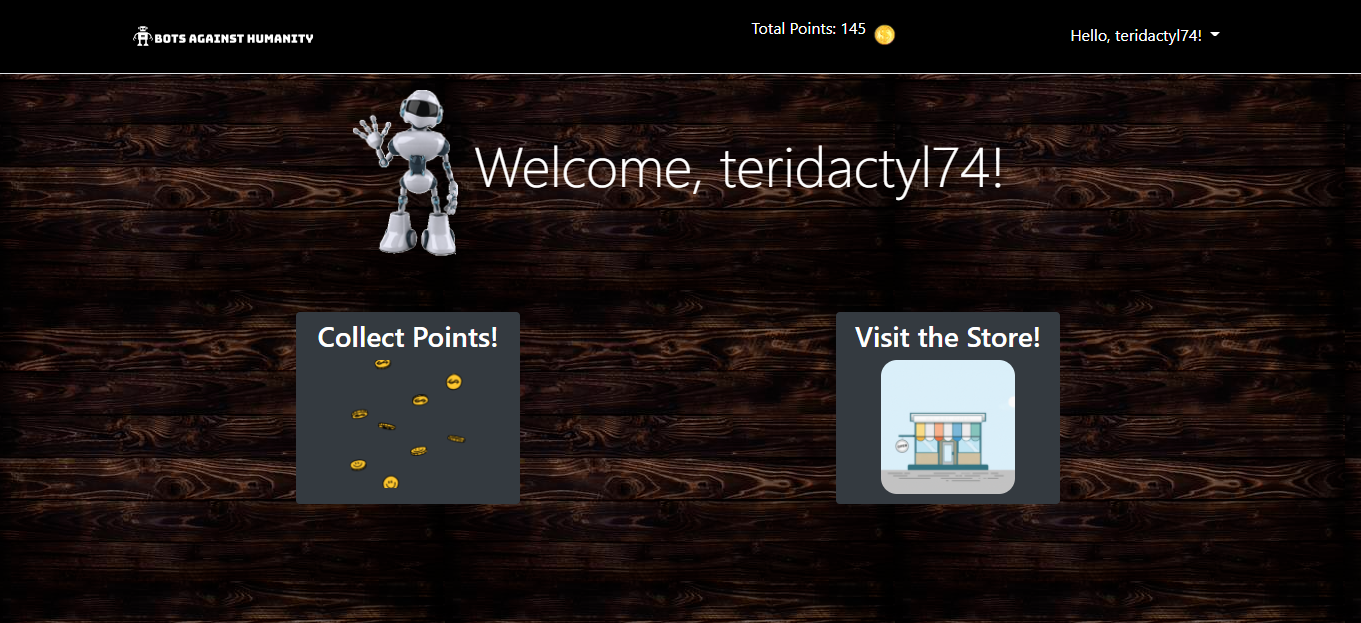
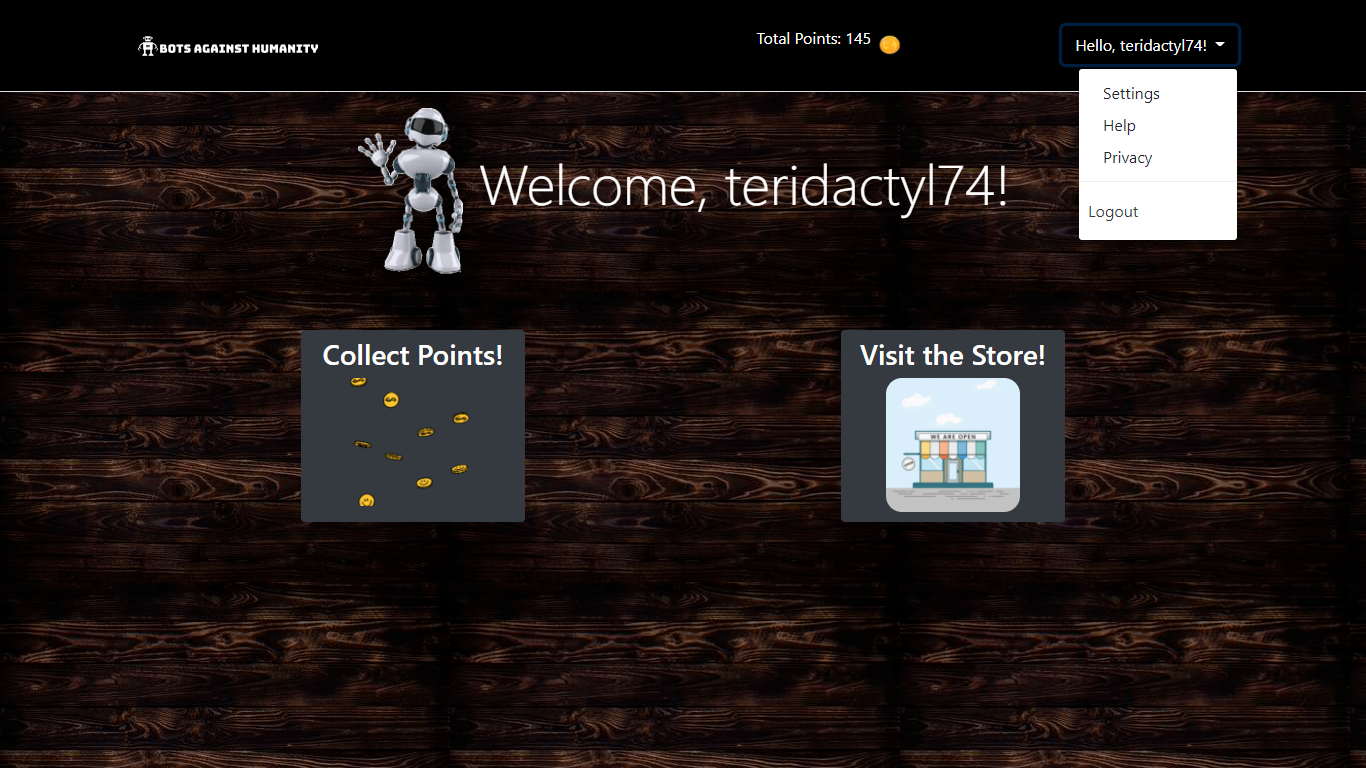
editing README

diff --git a/README.md b/README.md
@@ -11,7 +11,7 @@ I designed this game to be a fun way to entertain yourself while maintaining the
 
 ## Login/Register
 
-![alt text](https://github.com/swathi862/Bots-Against-Humanity/blob/master/Screenshots/black-text-logo.png "Login/Register page")
+![alt text](https://github.com/swathi862/Bots-Against-Humanity/blob/master/Screenshots/LoginRegister.png "Login/Register page")
 
 When the user starts the app, the first page they will see is the login/register page prompting them to press one of the two buttons.
 
@@ -22,39 +22,40 @@ When the user starts the app, the first page they will see is the login/register
 
 ## Home
 
-![alt text](https://github.com/swathi862/Bots-Against-Humanity/blob/master/Screenshots/black-text-logo.png "Home page")
+![alt text](https://github.com/swathi862/Bots-Against-Humanity/blob/master/Screenshots/HomePage.png "Home page")
 
-This is the page where a user can create a trip using an interactive map, generate trip details- trip mileage, duration, and approximate gas cost, personalize the trip with a name and description, and add the trip to their personal **My Trips** page.
+As a card game application, the navigation for this app is kept simplistic. After logging in, the user will be directed to the home page where they will be presented with the options **Collect Points!**- to go play a game- and **Visit the Store!**- to go to a store view to purchase a card deck.
+The home page can be accessed at any point by selecting the "Bots Against Humanity" logo on the top left side of the page in the navigation bar. 
+Also, in the navigation bar, there is a "Total Score: " component that refers to the user's overall score or the number of points that they have earned so far and a dropdown menu from "Hello, ----" 
+
 
 #### Collect Points
-There are tools available on the interactive map to make planning the trip you'd like to go on much easier. 
-1. On the vertical control panel, located on the left side of the map, you'll find a zoom in feature (+) and a zoom out feature (-), which will allow you to zoom in and zoom out on the map to present a view detailing more specific landmarks or cities in order to see exact places you'd like to visit.
-The control panel also contains a 'Reset North'(won't change map view) and a 'Geolocate' feature- the last button on the panel-which will lets the map locate your current location.
-+ You may also use the touchpad to zoom in and out on the map. And you can drag the map around to look at different areas by holding down the left touchpad button.
-2. On the top right side of the map, you'll find a search bar that takes in input like addresses, cities, or zip codes and returns some results that best match your search text. Once you click on a result, it maps that location on the map for you to further explore. You cannot search coordinates on this search bar- it utilizes reverse geocoding.
-3. You'll find the map markers needed to plot a trip pinned in the center of the United States map. 
-+ _Green Marker_- This is the primary marker that you should move around to pinpoint your destinations. ONLY MOVE THIS MARKER AROUND for best results. You need to move this marker at least 2 times ot generate any trip details.
-+ _Red Marker_- This marker is merely a placeholder to specify the destination the green marker was previously at.
+In order to start playing the game, you have to click on the 'Collect Points' button on the home page.
+After creating an account, a new user will be provided with a starter deck of cards with each card being worth 1 point each.
+Users will be able to collect points after completing games and with enough points, they will be able to visit the store to purchase a new card deck with their points.
 
 #### Visit the Store
-This section is located to the right side of the **Plan** page, beside the map, containing the trip details which will be generated after moving the map marker at least twice to create a trip with a start and end point, as well as, the ability to save the trip to your personal **My Trips** page.
-+ The fields that take in user input include _Name_(to give the trip a name) and _Destination_(provides a description of the trip, which can include the start and end points, a list of activities, who you're planning on going on the trip with, when, etc.).
-+ The fields generated by moving the markers around are _Mileage_- approximate distance in miles from point A(red marker) to point B(green marker), _Estimated Time_- total approximate driving, and _Estimated Cost_- estimated gas cost. 
-        
-+ The **_Save Trip_** button allows you to save your trip to your **My Trips** page, where you'll gain more functionality with what all you can do with your trip.
+Visit the Store to purchase more card decks! 
+By purchasing more decks, a user will be able to add more diverse cards to their answer card collection that the automated players will be choosing from. 
+Also, the more points a deck costs to purchase, the higher the point value of the 5 cards in the deck.
 
 ## How to Play
+![alt text](https://github.com/swathi862/Bots-Against-Humanity/blob/master/Screenshots/PlayGame.png "Play Game page")
 
+I have a game made up of 5 rounds, and in each round, 3 automated players will be submiting an answer card (white card), which is selected from the answer card selection the user has in their possession, in response to a randomly generated question card (black card). 
+In order to play, the user must select the **Vote!** button under one of the three answer cards submitted by the players in each round, and points earned per round will be dependent on the point value of the card selected.
+In this application, some cards have different point values depending on what deck they are from and the value of the deck.
 
-The **Explore** page functions as community databse of all of the completed trips that users have voluntarily shared with a rating and review for other adventurers to view and take inspiration from. A user can find trips utilizing the search bar and select a trip view the trip's details and the rating and review left by the user who shared the trip to the page. 
+![alt text](https://github.com/swathi862/Bots-Against-Humanity/blob/master/Screenshots/EndGame.png "End Game page")
 
-
-+ By clicking on the **_Details_** button on a trip, you can open up a modal that will list the trip name at the top followed by the trip destination, mileage, estimated travel time, and estimated travel cost. The modal will also include a rating out of 5 stars and a review submitted by the user who created the trip.
-+ By clicking on the **_Save to 'My Trips'_** button on the _Details_ modal, you can add this trip to your **My Trips** page, specifically under the _Future Trips_ tab.
+At the end of the game, the user will receive a notification letting them know of how many points they've earned and the game total will be added to their overall score.
 
 ## How to Purchase Decks
 
-This page saves all the trips the user has selected. The page has two tabs- a _Future Trips_ tab and a _Completed Trips_ tab. All the trips you add to this page will be under the _Future Trips_ tab.
+![alt text](https://github.com/swathi862/Bots-Against-Humanity/blob/master/Screenshots/StoreView.png "Store View page")
+
+When the user has enough points to purchase a deck, a blue button with "Purchase!" will be displayed under each deck that the user has enough points to purchase. If there is no "Purchase!" button under a deck, the user does not have enough points to purchase that deck. 
+After purchasing a deck, the deck will disappear from the store view because being able to re-purchase a deck would cause duplicate answer cards in the user's card collection, which may dampen the fun of the game.
 
 
 # Other Notes
